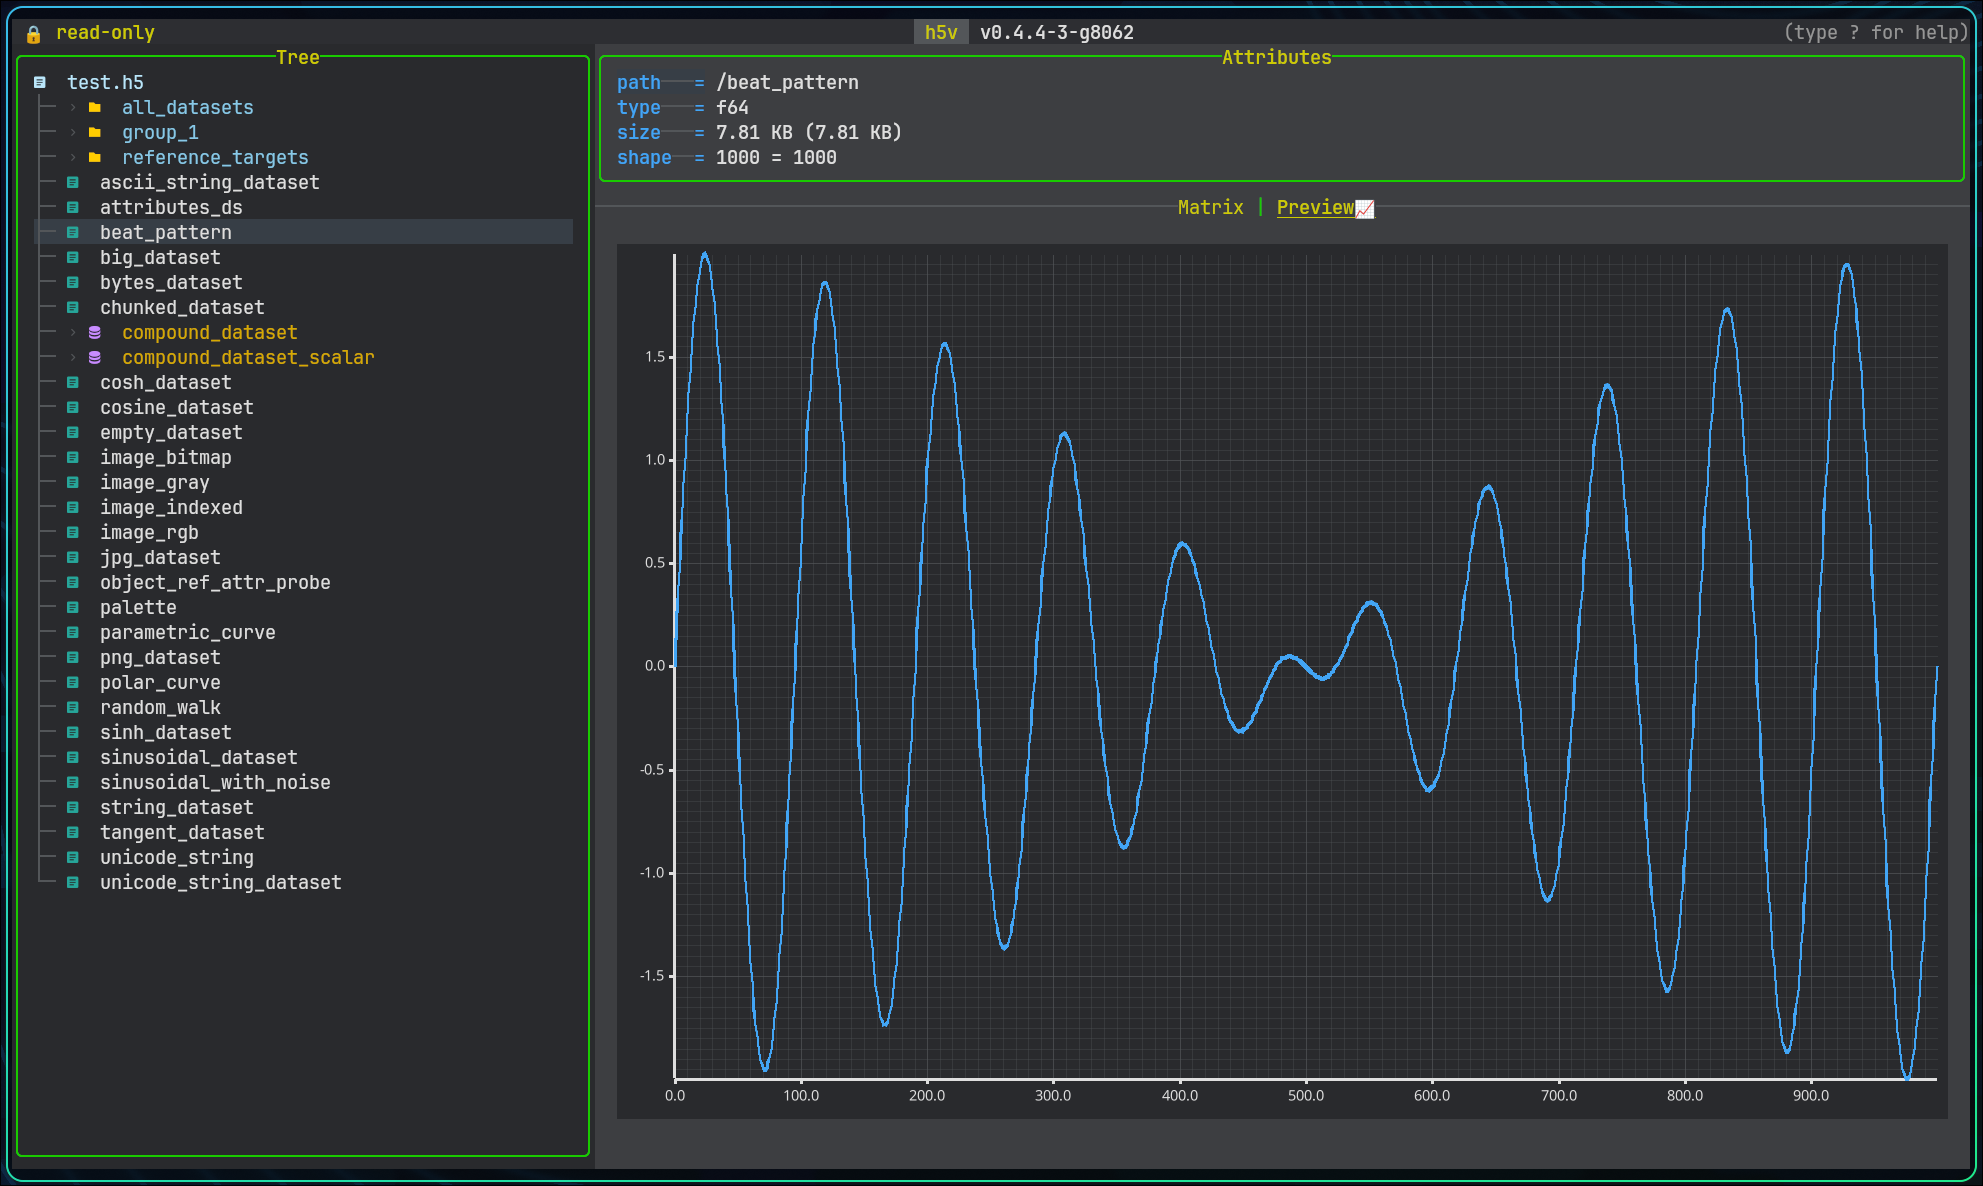
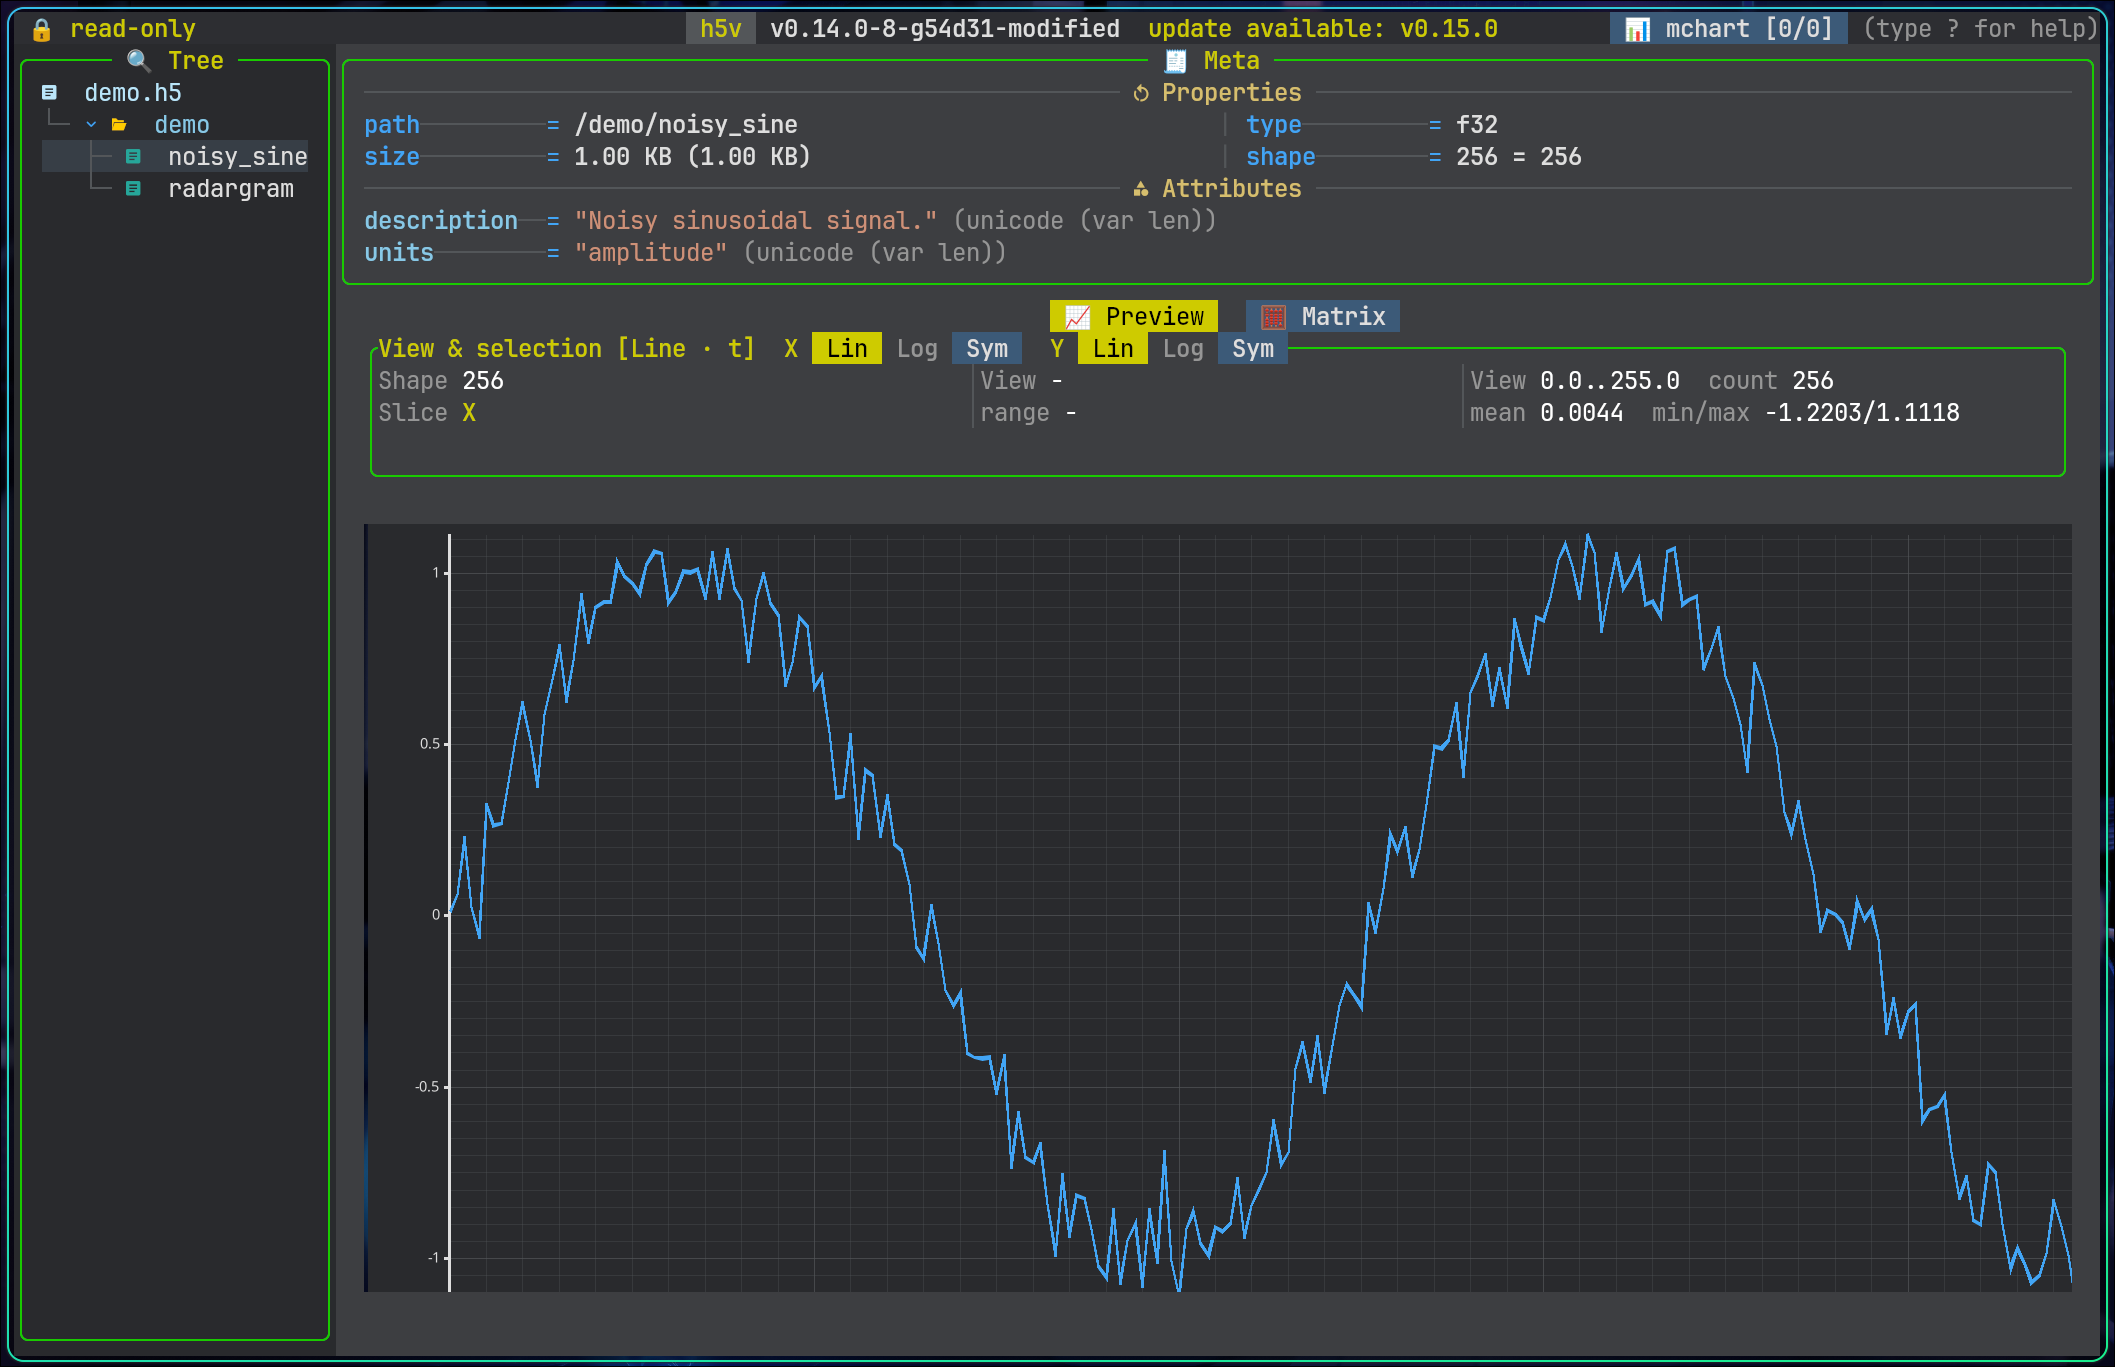
docs: Updated images

diff --git a/scripts/generate_quick_demo_h5.py b/scripts/generate_quick_demo_h5.py
@@ -1,0 +1,44 @@
+#!/usr/bin/env python3
+
+from pathlib import Path
+
+import h5py
+import numpy as np
+
+
+ROOT = Path(__file__).resolve().parents[1]
+OUTPUT_PATH = ROOT / "examples" / "quick-demo.h5"
+
+
+def build_quick_demo(output_path: Path) -> None:
+    rng = np.random.default_rng(20260822)
+    depth = np.linspace(0.0, 1.0, 128, dtype=np.float32)[:, None]
+    trace = np.linspace(0.0, 1.0, 256, dtype=np.float32)[None, :]
+    reflector_a = np.sin(70.0 * (depth - 0.22 - 0.06 * np.sin(trace * 2.0 * np.pi)))
+    reflector_b = np.sin(55.0 * (depth - 0.58 - 0.10 * np.cos(trace * 3.0 * np.pi)))
+    attenuation = np.exp(-depth * 2.5)
+    radargram = (attenuation * (reflector_a + 0.65 * reflector_b) + rng.normal(
+        0.0, 0.08, size=(128, 256)
+    )).astype(np.float32)
+    samples = np.linspace(0.0, 4.0 * np.pi, 256, dtype=np.float32)
+    noisy_sine = (np.sin(samples) + rng.normal(0.0, 0.1, size=256)).astype(np.float32)
+
+    output_path.parent.mkdir(parents=True, exist_ok=True)
+    with h5py.File(output_path, "w") as h5:
+        demo = h5.create_group("demo")
+        demo.attrs["description"] = "Small deterministic radar and signal demo."
+        heatmap = demo.create_dataset("radargram", data=radargram)
+        heatmap.attrs["description"] = "Synthetic attenuated reflection heatmap."
+        heatmap.attrs["units"] = "amplitude"
+        signal = demo.create_dataset("noisy_sine", data=noisy_sine)
+        signal.attrs["description"] = "Noisy sinusoidal signal."
+        signal.attrs["units"] = "amplitude"
+
+
+def main() -> None:
+    build_quick_demo(OUTPUT_PATH)
+    print(f"Wrote {OUTPUT_PATH.relative_to(ROOT)}")
+
+
+if __name__ == "__main__":
+    main()
